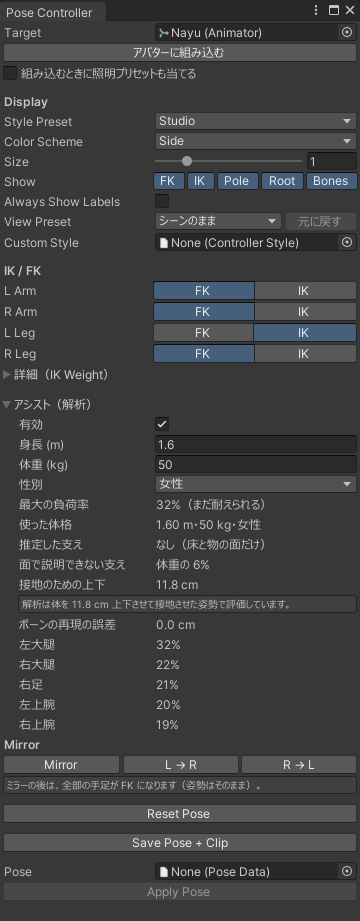
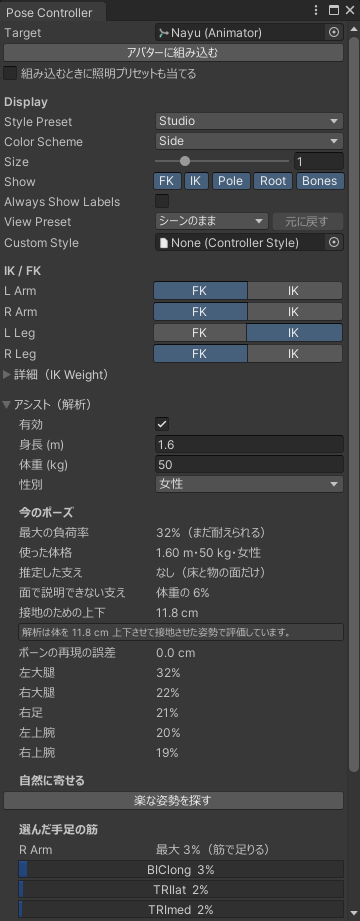
アシストのページを更新: 自然に寄せる (経路・ゴースト・適用) と選んだ手足の筋を「使えます」に、画像を差し替え・追加 (日本語と英語)
Claude-Session: https://claude.ai/code/session_01TfQcrnn5CnuXwuTXQDYVdL

diff --git a/docs/assist.md b/docs/assist.md
@@ -12,8 +12,8 @@ description: Pose Controller のウィンドウで、ポーズの負荷と推定
 | 関節ごとの負荷の印と数値 | 使えます |
 | 推定した支えと、接地のずれ | 使えます |
 | 負荷の大きい関節の一覧（上位 5 つ） | 使えます |
-| 負担の小さい姿勢へ寄せるスライダー | <span class="status-planned">予定</span> |
-| 選んだ手足の筋の活性 | <span class="status-planned">予定</span> |
+| 負担の小さい姿勢へ寄せるスライダー（自然に寄せる） | 使えます |
+| 選んだ手足の筋の活性 | 使えます |
 | ドラッグ中も追従して表示すること | <span class="status-planned">予定（計測と確認の後）</span> |
 
 ## 使い方
@@ -21,6 +21,10 @@ description: Pose Controller のウィンドウで、ポーズの負荷と推定
 1. Pose Controller ウィンドウの **アシスト（解析）** の節で、「有効」にします。既定はオフです。
 2. 体格（身長、体重、性別）を入れます。既定は 1.60 m、50 kg、女性です。この体格は、Comfort Analysis とは別に持ちます。
 3. ポーズを動かします。評価は、ドラッグを離したときに 1 回だけ行います。元に戻す、やり直す（Undo、Redo）の後も評価します。
+4. 腕か脚のコントローラーをシーンで選ぶと、**選んだ手足の筋** に、その手足の筋の活性（上位 5 つ）が出ます。
+5. **自然に寄せる** の「楽な姿勢を探す」を押すと、今のポーズから負担の小さい姿勢への経路を作り、半透明のゴーストを出します。アバターはまだ動きません。
+6. 「寄せる量」のスライダーで、ゴーストを動かして確かめます。0 が今のポーズ、1 が経路の最後です。そのときの負荷率も出ます。
+7. 「適用」でアバターに当てます。元に戻す（Undo）1 回で戻ります。IK だった手足は IK のままです。「破棄」は経路とゴーストを消すだけです。
 
 ## 表示の意味
 
@@ -28,12 +32,17 @@ description: Pose Controller のウィンドウで、ポーズの負荷と推定
 - **推定した支え**: 床や物の面が無いところに座るなど、体を支える面が無いときに、その面を推定して示します。推定した支えは、結果とは別の欄に書きます。
 - **接地のずれ**: 解析が体を床に合わせるために動かした上下の量です。1 cm を超えると注記します。
 - **ボーンの再現の誤差**: 解析の体のモデルと、Rig Controller の骨の位置とのずれです。3 cm を超えると、参考値として扱います。
+- **選んだ手足の筋**: 関節の負荷を、標準の筋骨格モデルの筋に配分した活性です。腕は OpenSim Arm26（肩と肘の屈曲・伸展、6 筋）、脚は Rajagopal 2016 です。計算は Comfort Analysis の筋レベルの欄と同じです。
+- **自然に寄せる**: 経路は Comfort Analysis と同じ方法で作ります。ただしアシストでは、ポーズ集の近い姿勢（体位の典型）と、LLM の提案は使いません。
 
 ## 注意
 
 - 評価はドラッグを離したときだけです。ドラッグしている間、数値は変わりません。
 - 数値は、体格と段階の境界という仮定に依存します。医療や労働の判断には使わないでください。
 - 体が直立していることを前提にします。ルートが大きく傾いているときは、解析を行わず、理由を表示します。
+- ポーズを動かすと、作った経路とゴーストは消えます。もう一度「楽な姿勢を探す」を押してください。
+- 適用のとき、IK と FK の途中の重みにしていた手足は FK になります。
+- 解析は体を上下させて接地させます（「接地のための上下」）。ゴーストと適用後の体の高さは、今のアバターとその分ずれます。
 
 ## 画面の例
 
@@ -41,9 +50,17 @@ description: Pose Controller のウィンドウで、ポーズの負荷と推定
 
 *アシストを有効にしたところ。関節に負荷の印（白→マゼンタ）と負荷率。*
 
-![アシストの節。最大の負荷率、推定した支え、接地のための上下など。](/img/screens/assist-window.png)
+![アシストの節。最大の負荷率、推定した支え、接地のための上下、負荷の大きい関節、選んだ手足（右腕）の筋。](/img/screens/assist-window.png)
 
-*アシストの節。最大の負荷率、推定した支え、接地のための上下など。*
+*アシストの節。最大の負荷率、推定した支え、接地のための上下、負荷の大きい関節、選んだ手足（右腕）の筋。*
+
+![「楽な姿勢を探す」の後、寄せる量 1 のゴースト（半透明の青）。上げていた左足を下ろした姿勢。アバターはまだ動いていない。](/img/screens/assist-path.png)
+
+*「楽な姿勢を探す」の後、寄せる量 1 のゴースト（半透明の青）。上げていた左足を下ろした姿勢。アバターはまだ動いていない。*
+
+![自然に寄せるの欄。寄せた姿勢の負荷率（今 32% → 最小 16%）、適用と破棄。](/img/screens/assist-path-window.png)
+
+*自然に寄せるの欄。寄せた姿勢の負荷率（今 32% → 最小 16%）、適用と破棄。*
 
 
 :::note 画像について

diff --git a/i18n/en/docusaurus-plugin-content-docs/current/assist.md b/i18n/en/docusaurus-plugin-content-docs/current/assist.md
@@ -12,8 +12,8 @@ Assist is a feature in the Pose Controller window. It shows the load of the curr
 | Load markers on joints, with numbers | Available |
 | Estimated support and ground offset | Available |
 | List of the highest-load joints (top 5) | Available |
-| Slider that moves the pose toward a lower-load pose | <span class="status-planned">Planned</span> |
-| Muscle activity for a selected limb | <span class="status-planned">Planned</span> |
+| Slider that moves the pose toward a lower-load pose (Move toward natural) | Available |
+| Muscle activity for a selected limb | Available |
 | Updating the display while dragging | <span class="status-planned">Planned (after measurement and review)</span> |
 
 ## How to use it
@@ -21,6 +21,10 @@ Assist is a feature in the Pose Controller window. It shows the load of the curr
 1. In the **Assist (analysis)** section of the Pose Controller window, turn on the option. It is off by default.
 2. Enter the body size: height, weight, and sex. The defaults are 1.60 m, 50 kg, and female. This body size is kept separately from Comfort Analysis.
 3. Move the pose. The analysis runs once, when you release the drag. It also runs after Undo and Redo.
+4. Select an arm or leg controller in the Scene view. The **selected limb's muscles** area shows that limb's muscle activity (top 5).
+5. In **Move toward natural**, press the button to find an easier pose. The tool builds a path from the current pose toward lower-load poses and shows a translucent ghost. The avatar does not move yet.
+6. Move the amount slider to check the ghost. 0 is the current pose and 1 is the end of the path. The load at that point is shown.
+7. Press Apply to put the pose on the avatar. One Undo brings it back. Limbs that were in IK stay in IK. Discard removes only the path and the ghost.
 
 ## What the display means
 
@@ -28,12 +32,17 @@ Assist is a feature in the Pose Controller window. It shows the load of the curr
 - **Estimated support**: When no floor or object surface supports the body, for example when sitting on nothing, the tool estimates a supporting surface and shows it. The estimated support is listed separately from the result.
 - **Ground offset**: The vertical distance the analysis moved the body to meet the floor. A note appears above 1 cm.
 - **Bone reproduction error**: The gap between the analysis model's body and the Rig Controller's bone positions. Above 3 cm, it is treated as a reference value only.
+- **Selected limb's muscles**: The joint load distributed over the muscles of a standard musculoskeletal model. Arms use OpenSim Arm26 (shoulder and elbow flexion and extension, 6 muscles). Legs use Rajagopal 2016. The calculation is the same as the muscle-level sections of Comfort Analysis.
+- **Move toward natural**: The path is built the same way as in Comfort Analysis. Assist does not use nearby poses from the pose collection (typical postures) or LLM suggestions.
 
 ## Notes
 
 - Analysis runs only when you release the drag. The numbers do not change while you drag.
 - The numbers depend on assumptions: the body size and the level boundaries. Do not use them for medical or workplace decisions.
 - The body is assumed to be upright. If the root is strongly tilted, the analysis does not run and the reason is shown.
+- When you move the pose, the path and the ghost are removed. Press the button again to build a new one.
+- When you apply, a limb with an IK weight between 0 and 1 becomes FK.
+- The analysis moves the body up or down to meet the floor (the ground offset). The ghost and the applied pose differ in height from the current avatar by that amount.
 
 ## Screenshots
 
@@ -41,9 +50,17 @@ Assist is a feature in the Pose Controller window. It shows the load of the curr
 
 *Assist enabled: load markers (white to magenta) and percentages on joints.*
 
-![The Assist section: max load, inferred supports, grounding shift, and more.](/img/screens/assist-window.png)
+![The Assist section: max load, inferred supports, grounding shift, highest-load joints, and the muscles of the selected limb (right arm).](/img/screens/assist-window.png)
 
-*The Assist section: max load, inferred supports, grounding shift, and more.*
+*The Assist section: max load, inferred supports, grounding shift, highest-load joints, and the muscles of the selected limb (right arm).*
+
+![After finding an easier pose: the ghost (translucent blue) at amount 1. The raised left leg is lowered. The avatar itself has not moved yet.](/img/screens/assist-path.png)
+
+*After finding an easier pose: the ghost (translucent blue) at amount 1. The raised left leg is lowered. The avatar itself has not moved yet.*
+
+![The Move toward natural area: the load of the moved pose (now 32% to minimum 16%), Apply, and Discard.](/img/screens/assist-path-window.png)
+
+*The Move toward natural area: the load of the moved pose (now 32% to minimum 16%), Apply, and Discard.*
 
 
 :::note About the images

diff --git a/docs/changelog.md b/docs/changelog.md
@@ -10,4 +10,4 @@ description: 変更の記録。
 - **Rig Controller の刷新**: 見た目の調整、IK・ポール・Root の直接ドラッグ、Shift で向きを固定、肩の FK、手足ごとの IK/FK の切り替え、ミラー。
 - **表示**: View Preset（シーンのまま、ニュートラル、フラット）と、縁取りの二色化。
 - **アバターへの組み込み**: Root の下に Rig Controller を 1 つ追加する機能。
-- **アシスト（解析）**: 関節の負荷の印と数値、推定した支え、接地のずれ、負荷の大きい関節の一覧。
+- **アシスト（解析）**: 関節の負荷の印と数値、推定した支え、接地のずれ、負荷の大きい関節の一覧。自然に寄せる（経路・ゴースト・適用）と、選んだ手足の筋の活性。

diff --git a/i18n/en/docusaurus-plugin-content-docs/current/changelog.md b/i18n/en/docusaurus-plugin-content-docs/current/changelog.md
@@ -10,4 +10,4 @@ No version number has been set yet.
 - **Rig Controller overhaul**: Visual adjustments, direct dragging of IK, pole, and Root handles, Shift to constrain the direction, shoulder FK, per-limb IK/FK switching, and mirroring.
 - **Display**: View Preset (As in scene, Neutral, Flat) and a two-color outline.
 - **Installing on an avatar**: Adds one Rig Controller under the root.
-- **Assist (analysis)**: Load markers with numbers, estimated support, ground offset, and the list of highest-load joints.
+- **Assist (analysis)**: Load markers with numbers, estimated support, ground offset, and the list of highest-load joints. Move toward natural (path, ghost, apply) and muscle activity for the selected limb.
